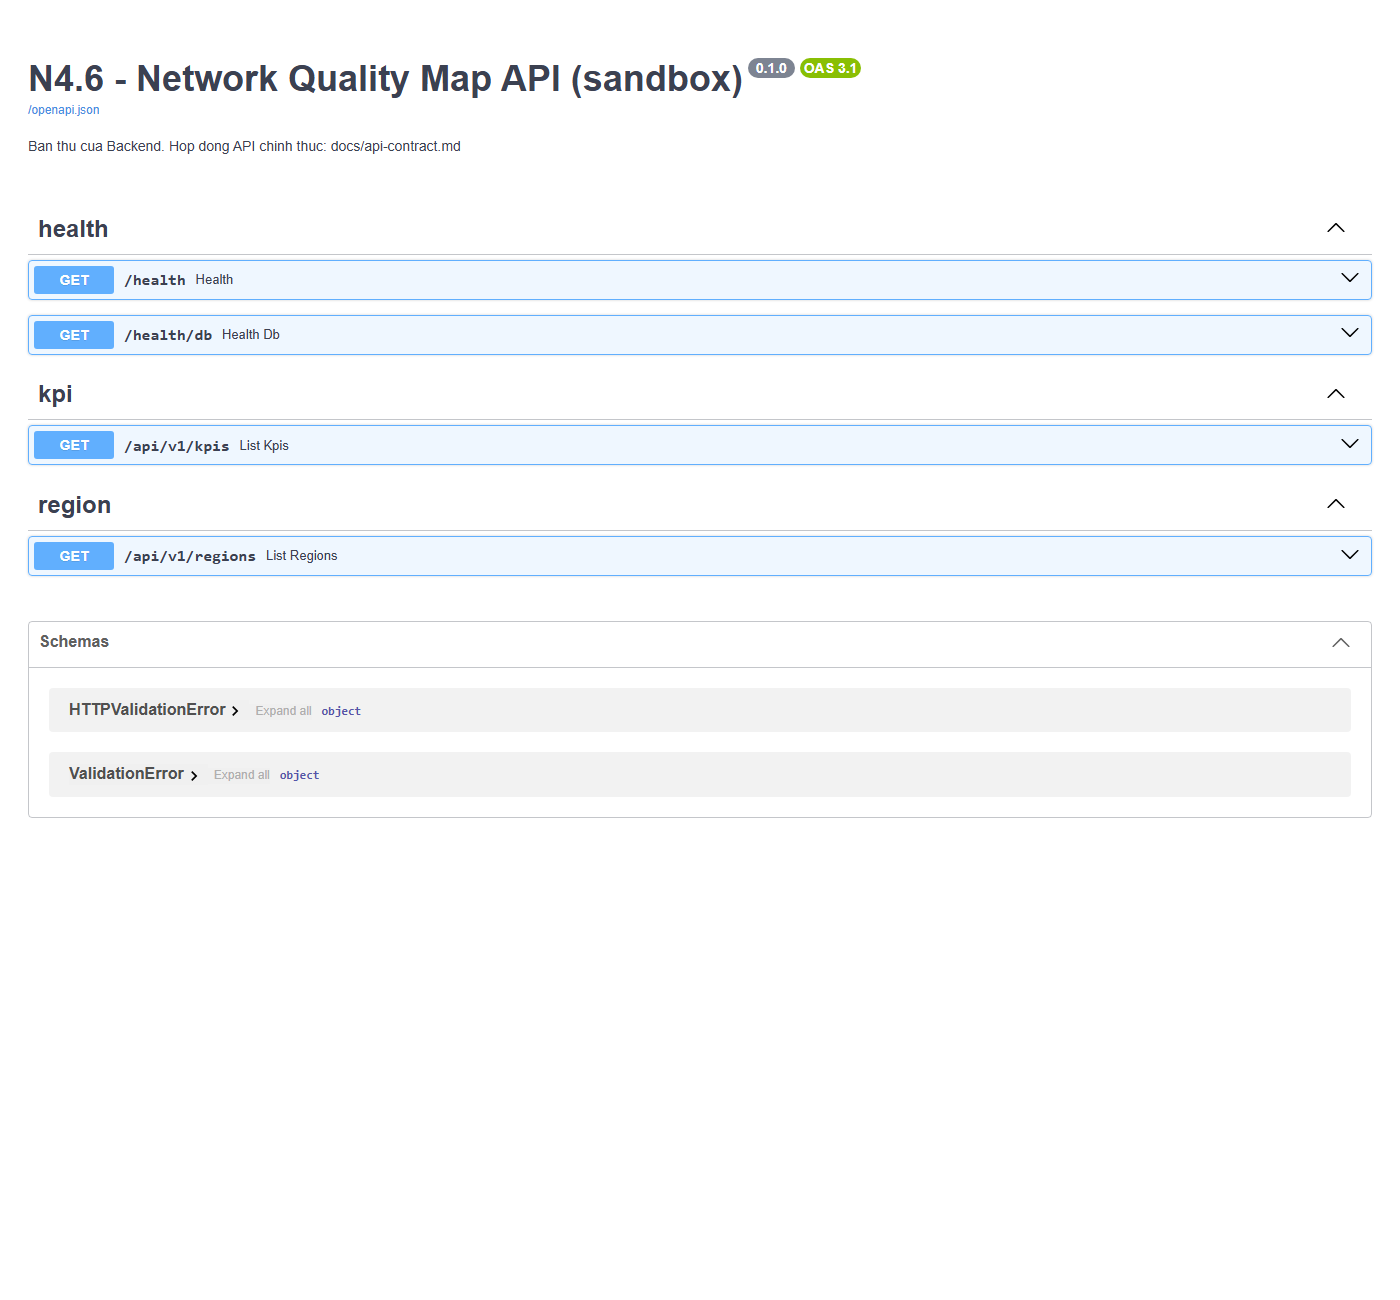
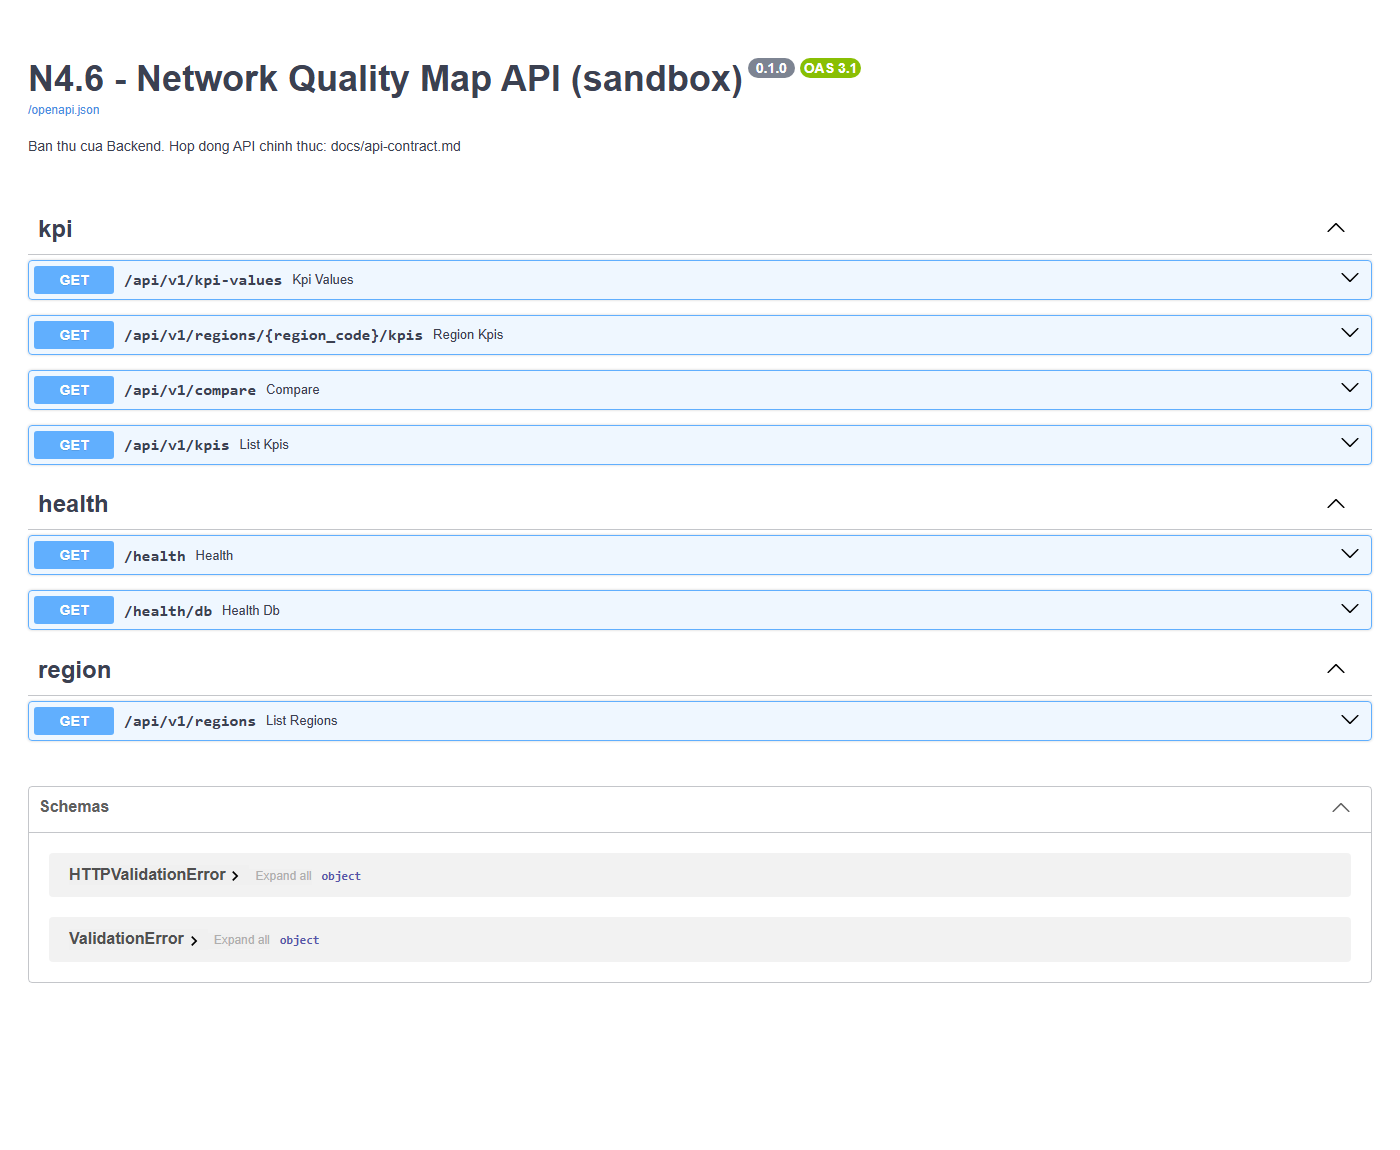
Them script tao anh minh chung, sua log Bruno/bench sang UTF-8

diff --git a/evidence/_html/e2e_grid_preview.html b/evidence/_html/e2e_grid_preview.html
@@ -1,0 +1,1 @@
+<!doctype html><meta charset='utf-8'><style>body{font-family:Segoe UI,Arial;margin:24px;background:#fff;color:#1b1b1b}h1{font-size:20px;margin:0 0 4px}p.sub{color:#555;margin:0 0 14px;font-size:13px}pre{background:#0f172a;color:#e2e8f0;padding:16px;border-radius:8px;font:13px Consolas,monospace;white-space:pre-wrap;margin:0}</style><h1>Kiem tra luong CSDL -&gt; API: latency_ms, thang 10/2026</h1><p class='sub'>Anh kiem tra du lieu cua Backend (khong phai giao dien Frontend). Du lieu thu, luoi gia lap.</p><svg width='480' height='480' style='font-family:Segoe UI'><defs><pattern id='hatch' width='8' height='8' patternUnits='userSpaceOnUse' patternTransform='rotate(45)'><rect width='8' height='8' fill='#e5e7eb'/><line x1='0' y1='0' x2='0' y2='8' stroke='#9ca3af' stroke-width='3'/></pattern></defs><polygon points='0.0,480.0 160.0,480.0 160.0,320.0 0.0,320.0 0.0,480.0' fill='hsl(62,65%,55%)' stroke='#fff' stroke-width='3'/><text x='80.00000000001516' y='393.9999999999991' text-anchor='middle' font-size='14' font-weight='600'>R-0-0</text><text x='80.00000000001516' y='413.9999999999991' text-anchor='middle' font-size='13'>57.0 ms</text><polygon points='160.0,480.0 320.0,480.0 320.0,320.0 160.0,320.0 160.0,480.0' fill='hsl(41,65%,55%)' stroke='#fff' stroke-width='3'/><text x='240.00000000002274' y='393.9999999999991' text-anchor='middle' font-size='14' font-weight='600'>R-0-1</text><text x='240.00000000002274' y='413.9999999999991' text-anchor='middle' font-size='13'>69.15 ms</text><polygon points='320.0,480.0 480.0,480.0 480.0,320.0 320.0,320.0 320.0,480.0' fill='hsl(120,65%,55%)' stroke='#fff' stroke-width='3'/><text x='400.0000000000076' y='393.9999999999991' text-anchor='middle' font-size='14' font-weight='600'>R-0-2</text><text x='400.0000000000076' y='413.9999999999991' text-anchor='middle' font-size='13'>22.24 ms</text><polygon points='0.0,320.0 160.0,320.0 160.0,160.0 0.0,160.0 0.0,320.0' fill='hsl(108,65%,55%)' stroke='#fff' stroke-width='3'/><text x='80.00000000001516' y='233.99999999999716' text-anchor='middle' font-size='14' font-weight='600'>R-1-0</text><text x='80.00000000001516' y='253.99999999999716' text-anchor='middle' font-size='13'>29.22 ms</text><polygon points='160.0,320.0 320.0,320.0 320.0,160.0 160.0,160.0 160.0,320.0' fill='url(#hatch)' stroke='#fff' stroke-width='3'/><text x='240.00000000002274' y='233.99999999999716' text-anchor='middle' font-size='14' font-weight='600'>R-1-1</text><text x='240.00000000002274' y='253.99999999999716' text-anchor='middle' font-size='13'>thieu du lieu</text><polygon points='320.0,320.0 480.0,320.0 480.0,160.0 320.0,160.0 320.0,320.0' fill='hsl(48,65%,55%)' stroke='#fff' stroke-width='3'/><text x='400.0000000000076' y='233.99999999999716' text-anchor='middle' font-size='14' font-weight='600'>R-1-2</text><text x='400.0000000000076' y='253.99999999999716' text-anchor='middle' font-size='13'>65.27 ms</text><polygon points='0.0,160.0 160.0,160.0 160.0,0.0 0.0,0.0 0.0,160.0' fill='hsl(0,65%,55%)' stroke='#fff' stroke-width='3'/><text x='80.00000000001516' y='73.99999999999811' text-anchor='middle' font-size='14' font-weight='600'>R-2-0</text><text x='80.00000000001516' y='93.99999999999811' text-anchor='middle' font-size='13'>93.63 ms</text><polygon points='160.0,160.0 320.0,160.0 320.0,0.0 160.0,0.0 160.0,160.0' fill='hsl(43,65%,55%)' stroke='#fff' stroke-width='3'/><text x='240.00000000002274' y='73.99999999999811' text-anchor='middle' font-size='14' font-weight='600'>R-2-1</text><text x='240.00000000002274' y='93.99999999999811' text-anchor='middle' font-size='13'>68.19 ms</text><polygon points='320.0,160.0 480.0,160.0 480.0,0.0 320.0,0.0 320.0,160.0' fill='hsl(70,65%,55%)' stroke='#fff' stroke-width='3'/><text x='400.0000000000076' y='73.99999999999811' text-anchor='middle' font-size='14' font-weight='600'>R-2-2</text><text x='400.0000000000076' y='93.99999999999811' text-anchor='middle' font-size='13'>52.25 ms</text></svg><p class='sub' style='margin-top:10px'>Xanh = do tre thap (tot), do = cao. Gach cheo = thieu du lieu (API tra null + status missing, khong phai 0).</p>

diff --git a/evidence/_html/bruno_run.html b/evidence/_html/bruno_run.html
@@ -1,0 +1,39 @@
+<!doctype html><meta charset='utf-8'><style>body{font-family:Segoe UI,Arial;margin:24px;background:#fff;color:#1b1b1b}h1{font-size:20px;margin:0 0 4px}p.sub{color:#555;margin:0 0 14px;font-size:13px}pre{background:#0f172a;color:#e2e8f0;padding:16px;border-radius:8px;font:13px Consolas,monospace;white-space:pre-wrap;margin:0}</style><h1>Kiem thu API bang Bruno CLI (8 request)</h1><p class='sub'>Nguon: evidence/bruno_run.txt - 2026-11-10</p><pre>01 Health DB (200 OK) - 42 ms
+Tests
+   Γ£ô status 200
+02 KPI list (200 OK) - 6 ms
+Tests
+   Γ£ô status 200
+03 Regions GeoJSON (200 OK) - 6 ms
+Tests
+   Γ£ô status 200
+04 KPI values (200 OK) - 14 ms
+Tests
+   Γ£ô status 200
+05 Region detail (200 OK) - 7 ms
+Tests
+   Γ£ô status 200
+06 Compare (200 OK) - 6 ms
+Tests
+   Γ£ô status 200
+07 Unknown KPI 404 (404 Not Found) - 6 ms
+Tests
+   Γ£ô status 404
+08 Bad date 422 (422 Unprocessable Content) - 3 ms
+Tests
+   Γ£ô status 422
+
+≡ƒôè Execution Summary
+ΓöîΓöÇΓöÇΓöÇΓöÇΓöÇΓöÇΓöÇΓöÇΓöÇΓöÇΓöÇΓöÇΓöÇΓöÇΓöÇΓö¼ΓöÇΓöÇΓöÇΓöÇΓöÇΓöÇΓöÇΓöÇΓöÇΓöÇΓöÇΓöÇΓöÇΓöÇΓöÉ
+Γöé Metric        Γöé    Result    Γöé
+Γö£ΓöÇΓöÇΓöÇΓöÇΓöÇΓöÇΓöÇΓöÇΓöÇΓöÇΓöÇΓöÇΓöÇΓöÇΓöÇΓö╝ΓöÇΓöÇΓöÇΓöÇΓöÇΓöÇΓöÇΓöÇΓöÇΓöÇΓöÇΓöÇΓöÇΓöÇΓöñ
+Γöé Status        Γöé    Γ£ô PASS    Γöé
+Γö£ΓöÇΓöÇΓöÇΓöÇΓöÇΓöÇΓöÇΓöÇΓöÇΓöÇΓöÇΓöÇΓöÇΓöÇΓöÇΓö╝ΓöÇΓöÇΓöÇΓöÇΓöÇΓöÇΓöÇΓöÇΓöÇΓöÇΓöÇΓöÇΓöÇΓöÇΓöñ
+Γöé Requests      Γöé 8 (8 Passed) Γöé
+Γö£ΓöÇΓöÇΓöÇΓöÇΓöÇΓöÇΓöÇΓöÇΓöÇΓöÇΓöÇΓöÇΓöÇΓöÇΓöÇΓö╝ΓöÇΓöÇΓöÇΓöÇΓöÇΓöÇΓöÇΓöÇΓöÇΓöÇΓöÇΓöÇΓöÇΓöÇΓöñ
+Γöé Tests         Γöé     8/8      Γöé
+Γö£ΓöÇΓöÇΓöÇΓöÇΓöÇΓöÇΓöÇΓöÇΓöÇΓöÇΓöÇΓöÇΓöÇΓöÇΓöÇΓö╝ΓöÇΓöÇΓöÇΓöÇΓöÇΓöÇΓöÇΓöÇΓöÇΓöÇΓöÇΓöÇΓöÇΓöÇΓöñ
+Γöé Assertions    Γöé     0/0      Γöé
+Γö£ΓöÇΓöÇΓöÇΓöÇΓöÇΓöÇΓöÇΓöÇΓöÇΓöÇΓöÇΓöÇΓöÇΓöÇΓöÇΓö╝ΓöÇΓöÇΓöÇΓöÇΓöÇΓöÇΓöÇΓöÇΓöÇΓöÇΓöÇΓöÇΓöÇΓöÇΓöñ
+Γöé Duration (ms) Γöé     727      Γöé
+ΓööΓöÇΓöÇΓöÇΓöÇΓöÇΓöÇΓöÇΓöÇΓöÇΓöÇΓöÇΓöÇΓöÇΓöÇΓöÇΓö┤ΓöÇΓöÇΓöÇΓöÇΓöÇΓöÇΓöÇΓöÇΓöÇΓöÇΓöÇΓöÇΓöÇΓöÇΓöÿ</pre>

diff --git a/evidence/_html/git_log.html b/evidence/_html/git_log.html
@@ -1,0 +1,44 @@
+<!doctype html><meta charset='utf-8'><style>body{font-family:Segoe UI,Arial;margin:24px;background:#fff;color:#1b1b1b}h1{font-size:20px;margin:0 0 4px}p.sub{color:#555;margin:0 0 14px;font-size:13px}pre{background:#0f172a;color:#e2e8f0;padding:16px;border-radius:8px;font:13px Consolas,monospace;white-space:pre-wrap;margin:0}</style><h1>Lich su commit</h1><p class='sub'>Nguon: evidence/git_log.txt - 2026-11-10</p><pre>commit f8e875c  2026-11-10 20:35  KatoPan625
+    N4.6 backend sandbox: FastAPI + PostGIS, 7 API doc, du lieu thu, 15 test
+
+ .env.example                         |   6 +
+ .gitignore                           |  13 +
+ .python-version                      |   1 +
+ README.md                            |  48 ++
+ app/__init__.py                      |   0
+ app/config.py                        |  21 +
+ app/db.py                            |  14 +
+ app/main.py                          |  80 +++
+ app/routes_kpi.py                    | 136 +++++
+ bruno/01 Health DB.bru               |  18 +
+ bruno/02 KPI list.bru                |  18 +
+ bruno/03 Regions GeoJSON.bru         |  18 +
+ bruno/04 KPI values.bru              |  18 +
+ bruno/05 Region detail.bru           |  18 +
+ bruno/06 Compare.bru                 |  18 +
+ bruno/07 Unknown KPI 404.bru         |  17 +
+ bruno/08 Bad date 422.bru            |  17 +
+ bruno/bruno.json                     |   1 +
+ bruno/environments/local.bru         |   3 +
+ data/sample_grid.geojson             | 338 ++++++++++++
+ data/sample_kpi.csv                  |  37 ++
+ db/init/01_schema_draft.sql          |  34 ++
+ docker-compose.yml                   |  21 +
+ docs/api-contract.md                 | 100 ++++
+ docs/openapi.json                    | 491 +++++++++++++++++
+ evidence/2026-11-10_health_db.png    | Bin 0 -&gt; 3355 bytes
+ evidence/2026-11-10_swagger_docs.png | Bin 0 -&gt; 48072 bytes
+ evidence/bench_baseline.txt          | Bin 0 -&gt; 972 bytes
+ evidence/bruno_run.txt               |  39 ++
+ evidence/pytest_run.txt              |  26 +
+ pyproject.toml                       |  32 ++
+ scripts/bench_api.py                 |  50 ++
+ scripts/export_openapi.py            |  16 +
+ scripts/load_sample.py               |  61 +++
+ scripts/make_bruno.ps1               |  29 +
+ scripts/make_sample_data.py          |  65 +++
+ tests/__init__.py                    |   0
+ tests/test_api.py                    |  32 ++
+ tests/test_kpi_api.py                |  87 +++
+ uv.lock                              | 997 +++++++++++++++++++++++++++++++++++
+ 40 files changed, 2920 insertions(+)</pre>

diff --git a/evidence/_html/pytest.html b/evidence/_html/pytest.html
@@ -1,0 +1,26 @@
+<!doctype html><meta charset='utf-8'><style>body{font-family:Segoe UI,Arial;margin:24px;background:#fff;color:#1b1b1b}h1{font-size:20px;margin:0 0 4px}p.sub{color:#555;margin:0 0 14px;font-size:13px}pre{background:#0f172a;color:#e2e8f0;padding:16px;border-radius:8px;font:13px Consolas,monospace;white-space:pre-wrap;margin:0}</style><h1>Kiem thu tu dong: uv run pytest -v</h1><p class='sub'>Nguon: evidence/pytest_run.txt - 2026-11-10</p><pre>============================= test session starts =============================
+platform win32 -- Python 3.13.15, pytest-9.2.0, pluggy-1.7.0 -- D:\University\HKDN\n46-backend-sandbox\.venv\Scripts\python.exe
+cachedir: .pytest_cache
+rootdir: D:\University\HKDN\n46-backend-sandbox
+configfile: pyproject.toml
+testpaths: tests
+plugins: anyio-4.16.0
+collecting ... collected 15 items
+
+tests/test_api.py::test_health PASSED                                    [  6%]
+tests/test_api.py::test_health_db_reports_postgis PASSED                 [ 13%]
+tests/test_api.py::test_kpis_have_unit_and_description PASSED            [ 20%]
+tests/test_api.py::test_regions_is_geojson_without_station_fields PASSED [ 26%]
+tests/test_kpi_api.py::test_kpi_values_returns_all_regions_with_unit PASSED [ 33%]
+tests/test_kpi_api.py::test_missing_is_null_not_zero PASSED              [ 40%]
+tests/test_kpi_api.py::test_period_without_any_data_is_missing_everywhere PASSED [ 46%]
+tests/test_kpi_api.py::test_region_filter PASSED                         [ 53%]
+tests/test_kpi_api.py::test_unknown_kpi_is_404 PASSED                    [ 60%]
+tests/test_kpi_api.py::test_bad_date_and_period_type_are_422 PASSED      [ 66%]
+tests/test_kpi_api.py::test_region_detail_series PASSED                  [ 73%]
+tests/test_kpi_api.py::test_region_detail_date_range_and_kpi_filter PASSED [ 80%]
+tests/test_kpi_api.py::test_region_detail_errors PASSED                  [ 86%]
+tests/test_kpi_api.py::test_compare_delta_is_b_minus_a PASSED            [ 93%]
+tests/test_kpi_api.py::test_compare_delta_null_when_one_period_missing PASSED [100%]
+
+============================= 15 passed in 0.85s ==============================</pre>

diff --git a/evidence/_html/api_kpi_values_missing.html b/evidence/_html/api_kpi_values_missing.html
@@ -1,0 +1,25 @@
+<!doctype html><meta charset='utf-8'><style>body{font-family:Segoe UI,Arial;margin:24px;background:#fff;color:#1b1b1b}h1{font-size:20px;margin:0 0 4px}p.sub{color:#555;margin:0 0 14px;font-size:13px}pre{background:#0f172a;color:#e2e8f0;padding:16px;border-radius:8px;font:13px Consolas,monospace;white-space:pre-wrap;margin:0}</style><h1>GET /api/v1/kpi-values?kpi=latency_ms&amp;period_start=2026-10-01&amp;region=R-0-0&amp;region=R-1-1</h1><p class='sub'>HTTP 200 - R-1-1 thieu du lieu</p><pre>{
+  &quot;kpi&quot;: {
+    &quot;code&quot;: &quot;latency_ms&quot;,
+    &quot;unit&quot;: &quot;ms&quot;,
+    &quot;higher_is_better&quot;: false
+  },
+  &quot;period&quot;: {
+    &quot;type&quot;: &quot;month&quot;,
+    &quot;start&quot;: &quot;2026-10-01&quot;
+  },
+  &quot;items&quot;: [
+    {
+      &quot;region_code&quot;: &quot;R-0-0&quot;,
+      &quot;value&quot;: 57.0,
+      &quot;status&quot;: &quot;ok&quot;,
+      &quot;updated_at&quot;: &quot;2026-11-10T13:28:40.036111Z&quot;
+    },
+    {
+      &quot;region_code&quot;: &quot;R-1-1&quot;,
+      &quot;value&quot;: null,
+      &quot;status&quot;: &quot;missing&quot;,
+      &quot;updated_at&quot;: &quot;2026-11-10T13:28:40.036111Z&quot;
+    }
+  ]
+}</pre>

diff --git a/evidence/_html/bench_baseline.html b/evidence/_html/bench_baseline.html
@@ -1,0 +1,8 @@
+<!doctype html><meta charset='utf-8'><style>body{font-family:Segoe UI,Arial;margin:24px;background:#fff;color:#1b1b1b}h1{font-size:20px;margin:0 0 4px}p.sub{color:#555;margin:0 0 14px;font-size:13px}pre{background:#0f172a;color:#e2e8f0;padding:16px;border-radius:8px;font:13px Consolas,monospace;white-space:pre-wrap;margin:0}</style><h1>Baseline thoi gian phan hoi API (quy mo lab)</h1><p class='sub'>Nguon: evidence/bench_baseline.txt - 2026-11-10</p><pre>Baseline API - 2026-11-10 20:36 - KatoPan - 200 lan/endpoint
+Du lieu: luoi 3x3, 2 KPI, 2 ky (du lieu thu). Server local, 1 worker, 1 client.
+
+Endpoint                             p50 ms   p95 ms   max ms  loi
+GET /api/v1/regions                     3.8      4.8     16.8    0
+GET /api/v1/kpi-values                  4.8      5.5      6.0    0
+GET /api/v1/regions/{code}/kpis         4.7      5.4      6.5    0
+GET /api/v1/compare                     4.9      5.8      6.6    0</pre>

diff --git a/scripts/make_evidence.py b/scripts/make_evidence.py
@@ -1,0 +1,133 @@
+"""Tao anh minh chung cho bao cao tu log va API dang chay (Windows + Edge).
+
+Chay: uv run python scripts/make_evidence.py   (can server + CSDL dang chay)
+"""
+
+import html
+import json
+import subprocess
+import sys
+from datetime import date
+from pathlib import Path
+
+import httpx
+
+ROOT = Path(__file__).resolve().parent.parent
+EV = ROOT / "evidence"
+TMP = EV / "_html"
+EDGE = r"C:\Program Files (x86)\Microsoft\Edge\Application\msedge.exe"
+BASE = "http://localhost:8000"
+DAY = date.today().isoformat()
+CSS = (
+    "body{font-family:Segoe UI,Arial;margin:24px;background:#fff;color:#1b1b1b}"
+    "h1{font-size:20px;margin:0 0 4px}p.sub{color:#555;margin:0 0 14px;font-size:13px}"
+    "pre{background:#0f172a;color:#e2e8f0;padding:16px;border-radius:8px;font:13px Consolas,monospace;"
+    "white-space:pre-wrap;margin:0}"
+)
+
+
+def page(name: str, title: str, sub: str, body: str, width: int, height: int) -> None:
+    TMP.mkdir(parents=True, exist_ok=True)
+    src = TMP / f"{name}.html"
+    src.write_text(
+        f"<!doctype html><meta charset='utf-8'><style>{CSS}</style>"
+        f"<h1>{html.escape(title)}</h1><p class='sub'>{html.escape(sub)}</p>{body}",
+        encoding="utf-8",
+    )
+    out = EV / f"{DAY}_{name}.png"
+    subprocess.run(
+        [EDGE, "--headless=new", "--disable-gpu", "--hide-scrollbars",
+         f"--window-size={width},{height}", f"--screenshot={out}", src.as_uri()],
+        check=True, capture_output=True,
+    )
+    print("Da tao", out.name)
+
+
+def log_page(name: str, title: str, log_file: str, tail: int | None = None) -> None:
+    raw = (EV / log_file).read_bytes()
+    text = raw.decode("utf-16") if raw[:2] in (b"\xff\xfe", b"\xfe\xff") else raw.decode("utf-8-sig")
+    lines = text.rstrip().splitlines()[-tail:] if tail else text.rstrip().splitlines()
+    body = f"<pre>{html.escape(chr(10).join(lines))}</pre>"
+    page(name, title, f"Nguon: evidence/{log_file} - {DAY}", body, 1100, 120 + 19 * len(lines))
+
+
+def color(v: float, lo: float, hi: float, higher_is_better: bool) -> str:
+    t = 0.5 if hi == lo else (v - lo) / (hi - lo)
+    t = t if higher_is_better else 1 - t  # t=1 la tot
+    return f"hsl({round(t * 120)},65%,55%)"
+
+
+def grid_preview(client: httpx.Client) -> None:
+    params = {"kpi": "latency_ms", "period_start": "2026-10-01"}
+    regions = client.get("/api/v1/regions").json()["features"]
+    kv = client.get("/api/v1/kpi-values", params=params).json()
+    vals = {i["region_code"]: i for i in kv["items"]}
+    ok = [i["value"] for i in kv["items"] if i["status"] == "ok"]
+    lo, hi = min(ok), max(ok)
+    xs = [p[0] for f in regions for p in f["geometry"]["coordinates"][0][0]]
+    ys = [p[1] for f in regions for p in f["geometry"]["coordinates"][0][0]]
+    sx, sy, size = min(xs), max(ys), 480
+
+    def pt(p):
+        return (p[0] - sx) / (max(xs) - sx) * size, (sy - p[1]) / (sy - min(ys)) * size
+
+    shapes = []
+    for f in regions:
+        ring = [pt(p) for p in f["geometry"]["coordinates"][0][0]]
+        code = f["properties"]["region_code"]
+        item = vals[code]
+        fill = "url(#hatch)" if item["value"] is None else color(item["value"], lo, hi, False)
+        label = "thieu du lieu" if item["value"] is None else f"{item['value']} {kv['kpi']['unit']}"
+        cx = sum(x for x, _ in ring[:-1]) / 4
+        cy = sum(y for _, y in ring[:-1]) / 4
+        poly = " ".join(f"{x:.1f},{y:.1f}" for x, y in ring)
+        shapes.append(
+            f"<polygon points='{poly}' fill='{fill}' stroke='#fff' stroke-width='3'/>"
+            f"<text x='{cx}' y='{cy - 6}' text-anchor='middle' font-size='14' font-weight='600'>{code}</text>"
+            f"<text x='{cx}' y='{cy + 14}' text-anchor='middle' font-size='13'>{label}</text>"
+        )
+    svg = (
+        f"<svg width='{size}' height='{size}' style='font-family:Segoe UI'>"
+        "<defs><pattern id='hatch' width='8' height='8' patternUnits='userSpaceOnUse' "
+        "patternTransform='rotate(45)'><rect width='8' height='8' fill='#e5e7eb'/>"
+        "<line x1='0' y1='0' x2='0' y2='8' stroke='#9ca3af' stroke-width='3'/></pattern></defs>"
+        + "".join(shapes) + "</svg>"
+    )
+    legend = (
+        "<p class='sub' style='margin-top:10px'>Xanh = do tre thap (tot), do = cao. "
+        "Gach cheo = thieu du lieu (API tra null + status missing, khong phai 0).</p>"
+    )
+    page("e2e_grid_preview", "Kiem tra luong CSDL -> API: latency_ms, thang 10/2026",
+         "Anh kiem tra du lieu cua Backend (khong phai giao dien Frontend). Du lieu thu, luoi gia lap.",
+         svg + legend, 560, 720)
+
+
+def json_page(client: httpx.Client) -> None:
+    res = client.get("/api/v1/kpi-values",
+                     params={"kpi": "latency_ms", "period_start": "2026-10-01",
+                             "region": ["R-0-0", "R-1-1"]})
+    body = json.dumps(res.json(), indent=2, ensure_ascii=False)
+    url = str(res.request.url).replace(BASE, "")
+    page("api_kpi_values_missing", f"GET {url}", f"HTTP {res.status_code} - R-1-1 thieu du lieu",
+         f"<pre>{html.escape(body)}</pre>", 1000, 120 + 19 * len(body.splitlines()))
+
+
+def main() -> None:
+    with httpx.Client(base_url=BASE, timeout=10) as client:
+        client.get("/health").raise_for_status()
+        grid_preview(client)
+        json_page(client)
+    subprocess.run(
+        [EDGE, "--headless=new", "--disable-gpu", "--hide-scrollbars", "--window-size=1400,1150",
+         "--virtual-time-budget=8000", f"--screenshot={EV / f'{DAY}_swagger_docs.png'}",
+         f"{BASE}/docs"], check=True, capture_output=True,
+    )
+    print("Da tao", f"{DAY}_swagger_docs.png")
+    log_page("pytest", "Kiem thu tu dong: uv run pytest -v", "pytest_run.txt")
+    log_page("bruno_run", "Kiem thu API bang Bruno CLI (8 request)", "bruno_run.txt")
+    log_page("bench_baseline", "Baseline thoi gian phan hoi API (quy mo lab)", "bench_baseline.txt")
+    log_page("git_log", "Lich su commit", "git_log.txt")
+
+
+if __name__ == "__main__":
+    sys.exit(main())

diff --git a/scripts/bench_api.py b/scripts/bench_api.py
@@ -25,7 +25,7 @@ CASES = [
 
 def pct(data: list[float], p: float) -> float:
     s = sorted(data)
-    return s[min(len(s) - 1, int(round(p * (len(s) - 1))))]
+    return s[min(len(s) - 1, round(p * (len(s) - 1)))]
 
 
 def main() -> None:
